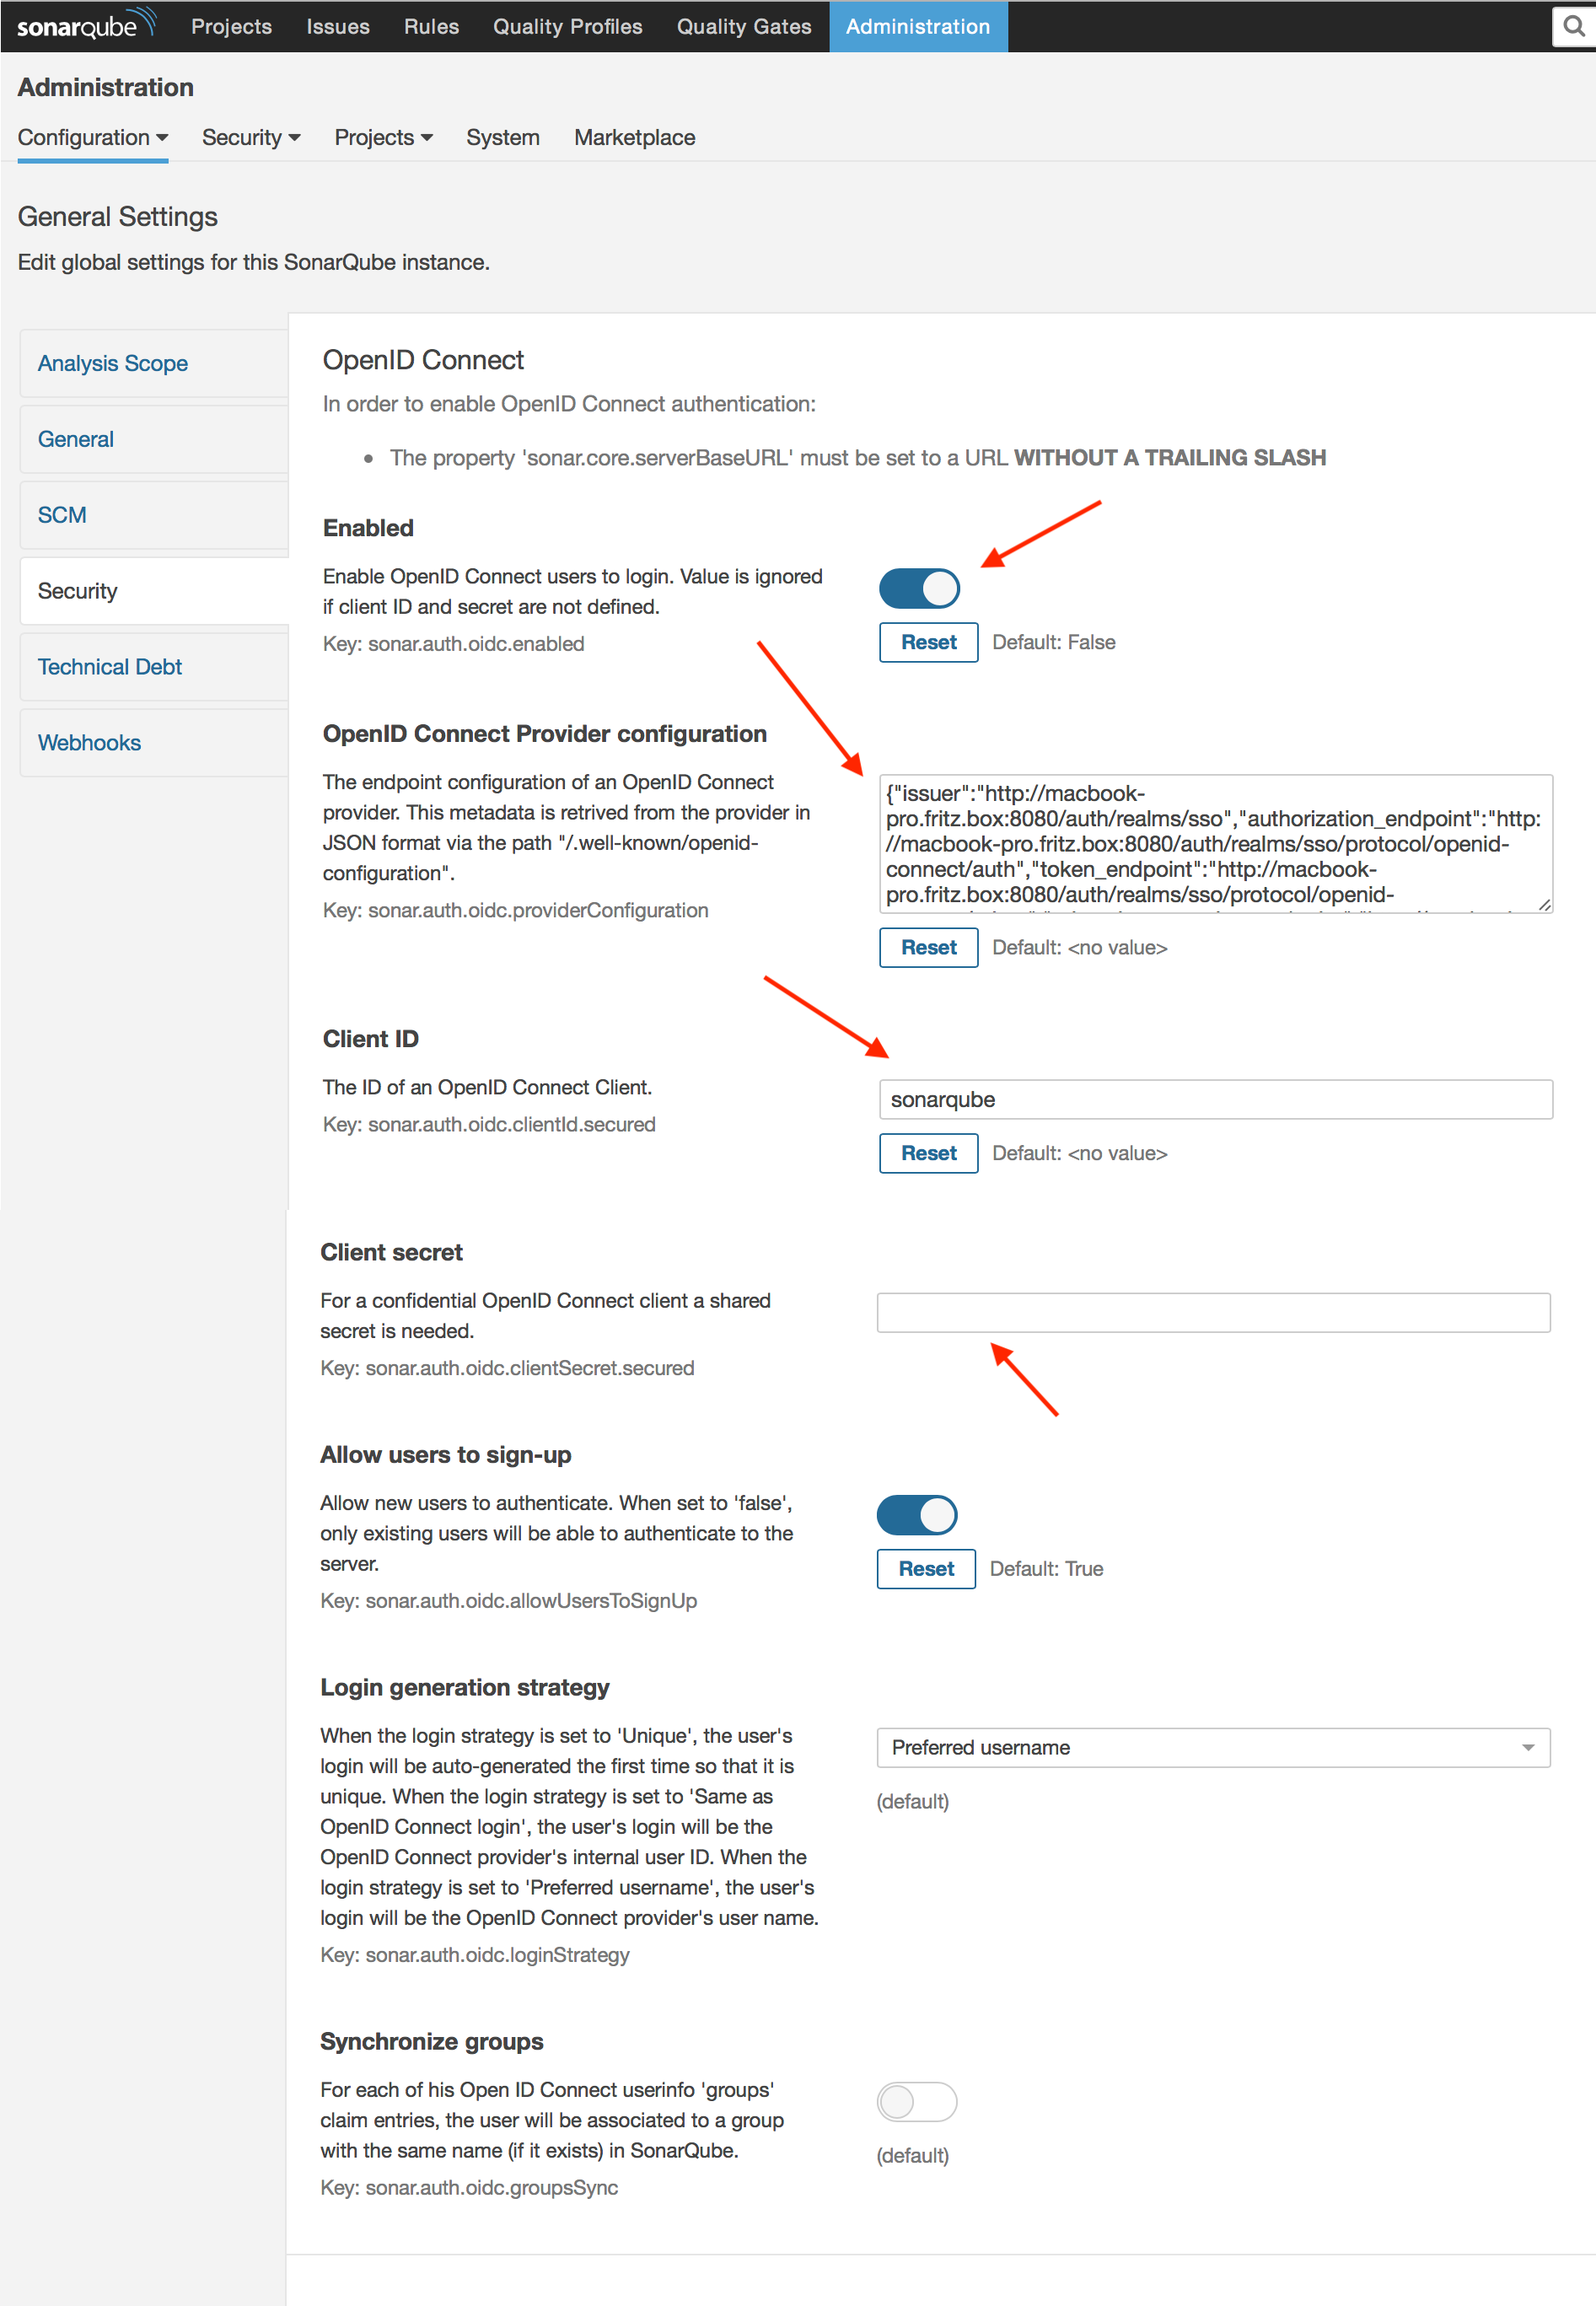
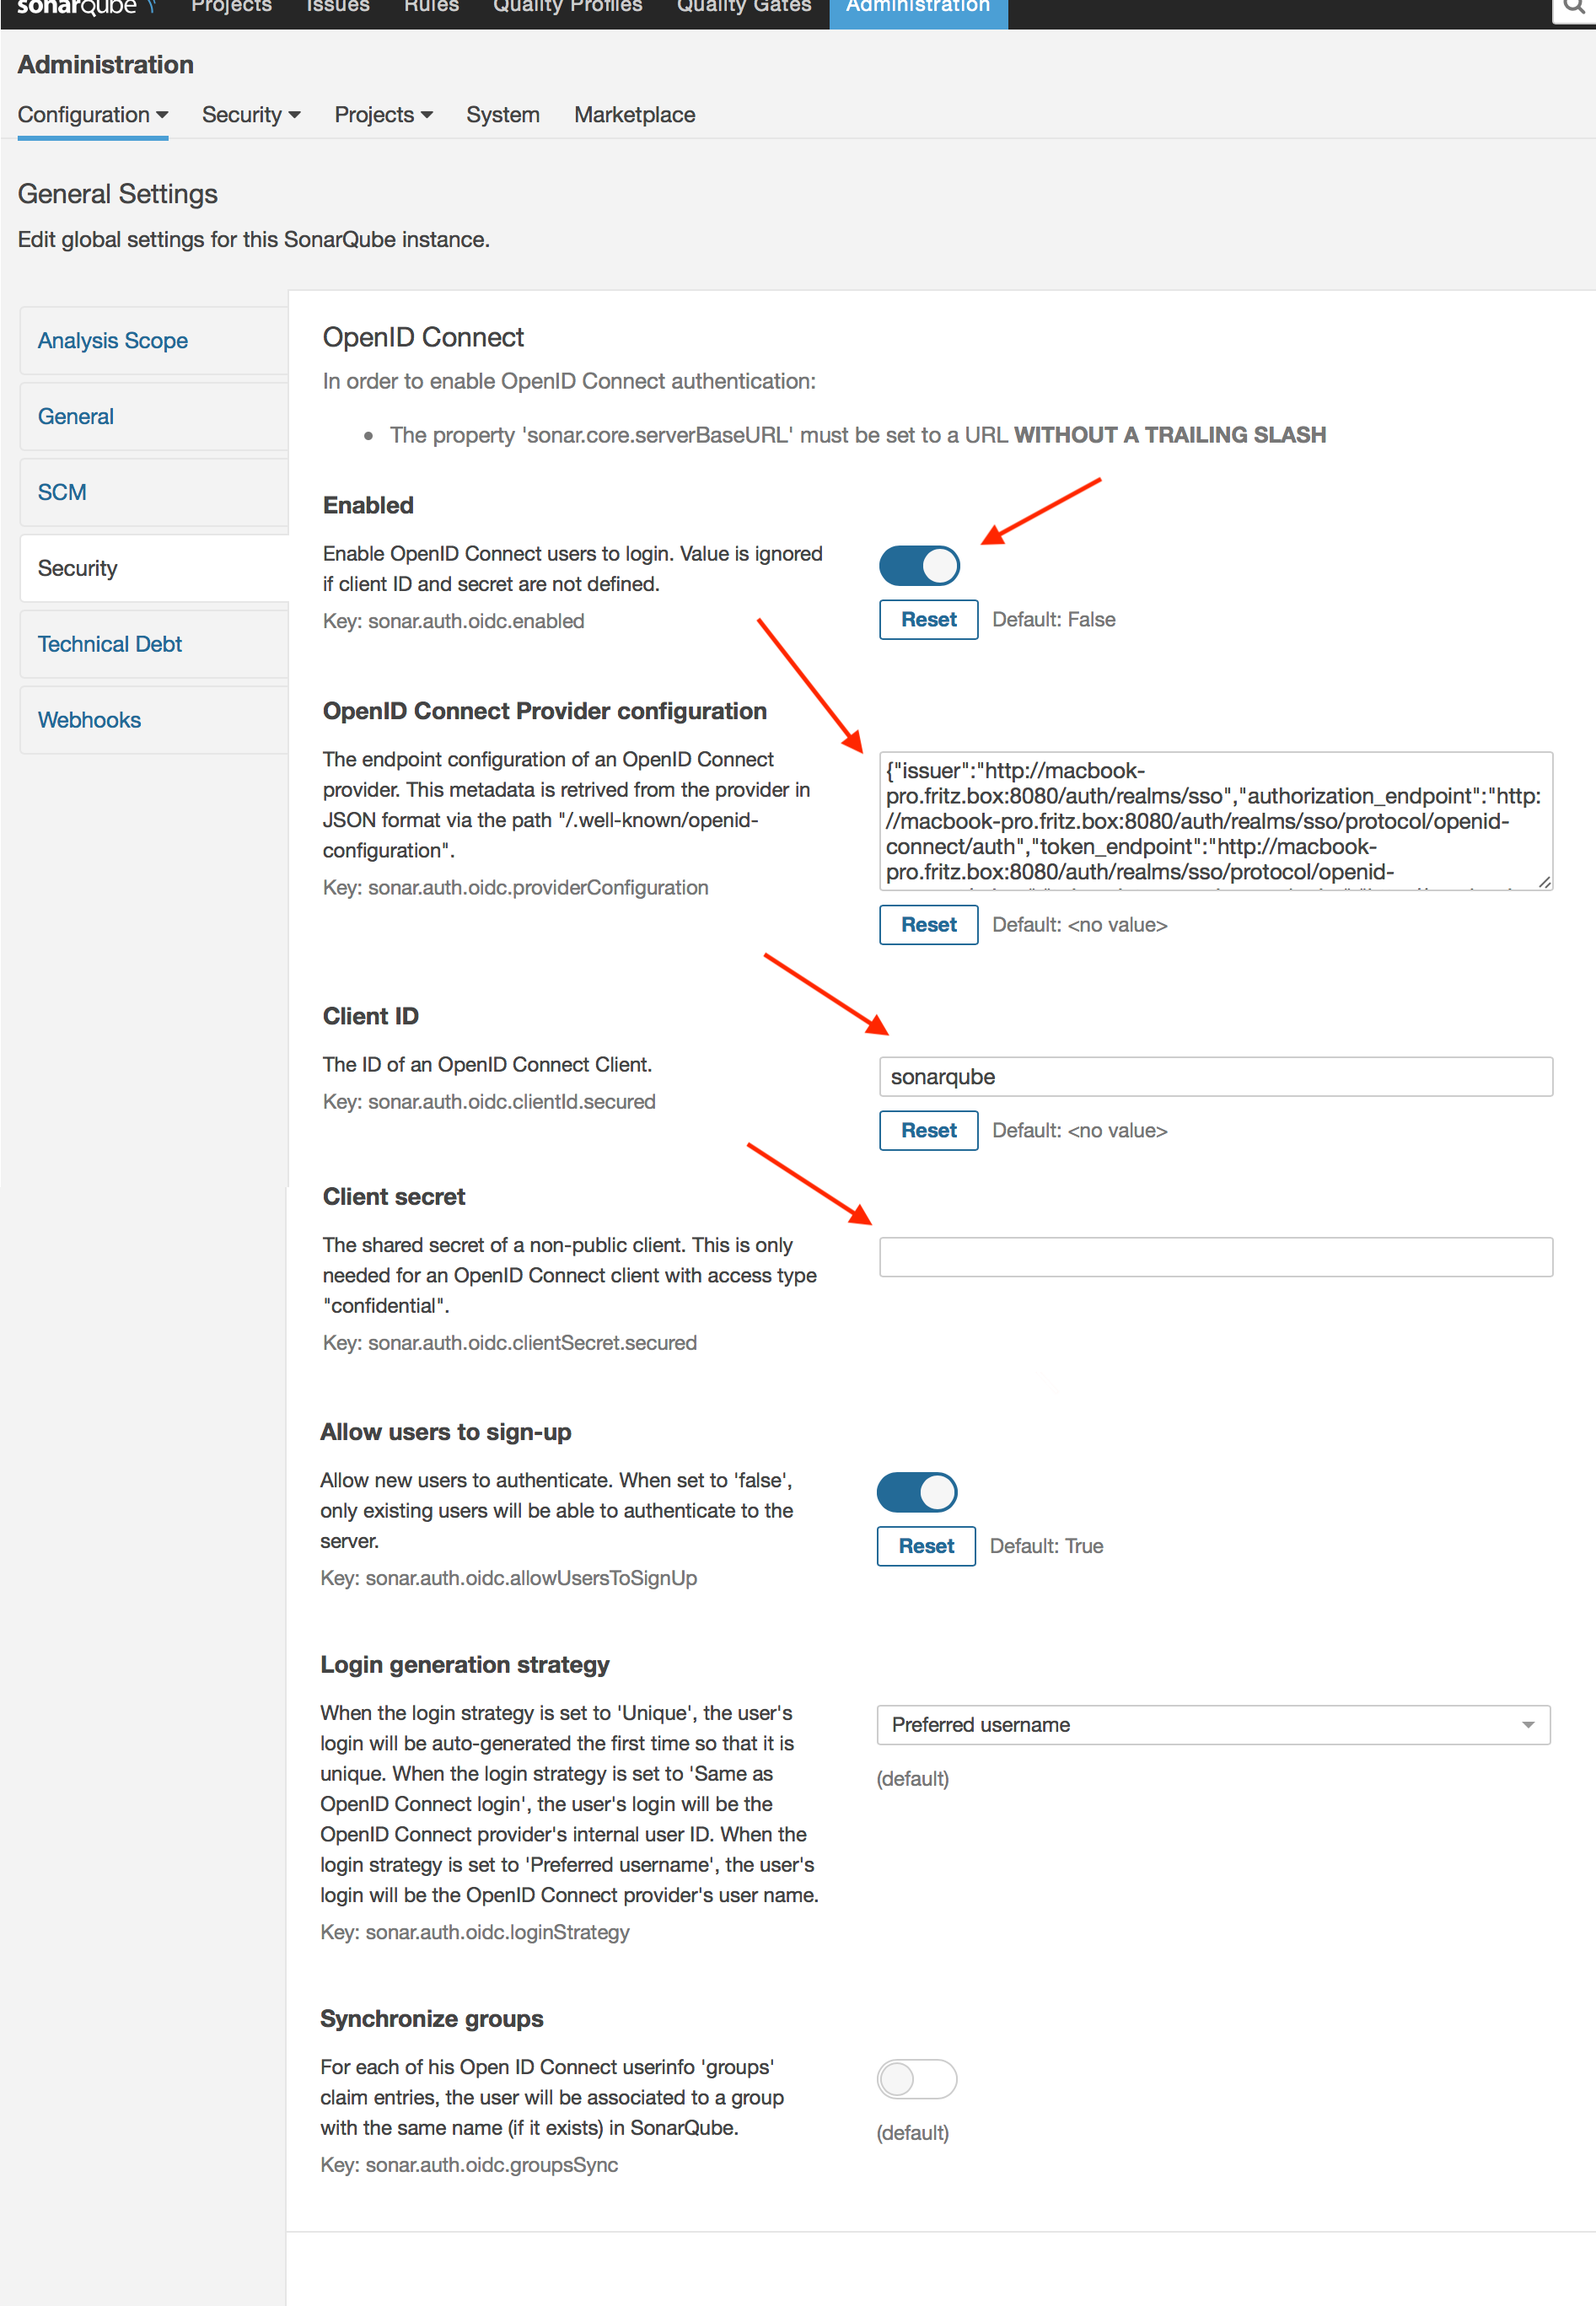
fixes #1 clarifies the client secret configuration

diff --git a/src/main/java/org/vaulttec/sonarqube/auth/oidc/OidcSettings.java b/src/main/java/org/vaulttec/sonarqube/auth/oidc/OidcSettings.java
@@ -104,8 +104,9 @@ public class OidcSettings {
 		    PropertyDefinition.builder(CLIENT_ID).name("Client ID").description("The ID of an OpenID Connect Client.")
 		        .category(CATEGORY).subCategory(SUBCATEGORY).type(STRING).index(index++).build(),
 		    PropertyDefinition.builder(CLIENT_SECRET).name("Client secret")
-		        .description("For a confidential OpenID Connect client a shared secret is needed.").category(CATEGORY)
-		        .subCategory(SUBCATEGORY).type(STRING).index(index++).build(),
+		        .description("The shared secret of a non-public client. "
+		            + "This is only needed for an OpenID Connect client with access type \"confidential\".")
+		        .category(CATEGORY).subCategory(SUBCATEGORY).type(STRING).index(index++).build(),
 		    PropertyDefinition.builder(ALLOW_USERS_TO_SIGN_UP).name("Allow users to sign-up").description(
 		        "Allow new users to authenticate. When set to 'false', only existing users will be able to authenticate to the server.")
 		        .category(CATEGORY).subCategory(SUBCATEGORY).type(BOOLEAN).defaultValue(valueOf(true)).index(index++)

diff --git a/README.md b/README.md
@@ -24,7 +24,7 @@ file.
 ## Configuration
 
 - In OpenID Connect identity provider:
-  - Create a client with access type 'Public' or 'Confidential' and valid redirect URLs for the SonarQube server
+  - Create a client with access type 'public' or 'confidential' (in the latter case the corresponding client secret must be set in the plugin configuration) and valid redirect URI(s) for the SonarQube server
     ![Keycloak Client Configuration](docs/images/keycloak-client-config.png)
 
   - For synchronizing SonarQube groups create a mapper which adds group names to the userinfo claim `groups` in the ID token
@@ -34,7 +34,7 @@ file.
     ![Keycloak Client Configuration](docs/images/keycloak-endpoint-config.png)
 
 - In SonarQube administration (General-\> Security -\> OpenID Connect):
-  - Configure the plugin for the OpenID Connect client
+  - Configure the plugin for the OpenID Connect client (a client secret is only need for clients with access type 'confidential')
     ![SonarQube Plugin Configuration](docs/images/plugin-config.png)
 
 ## Tested with
